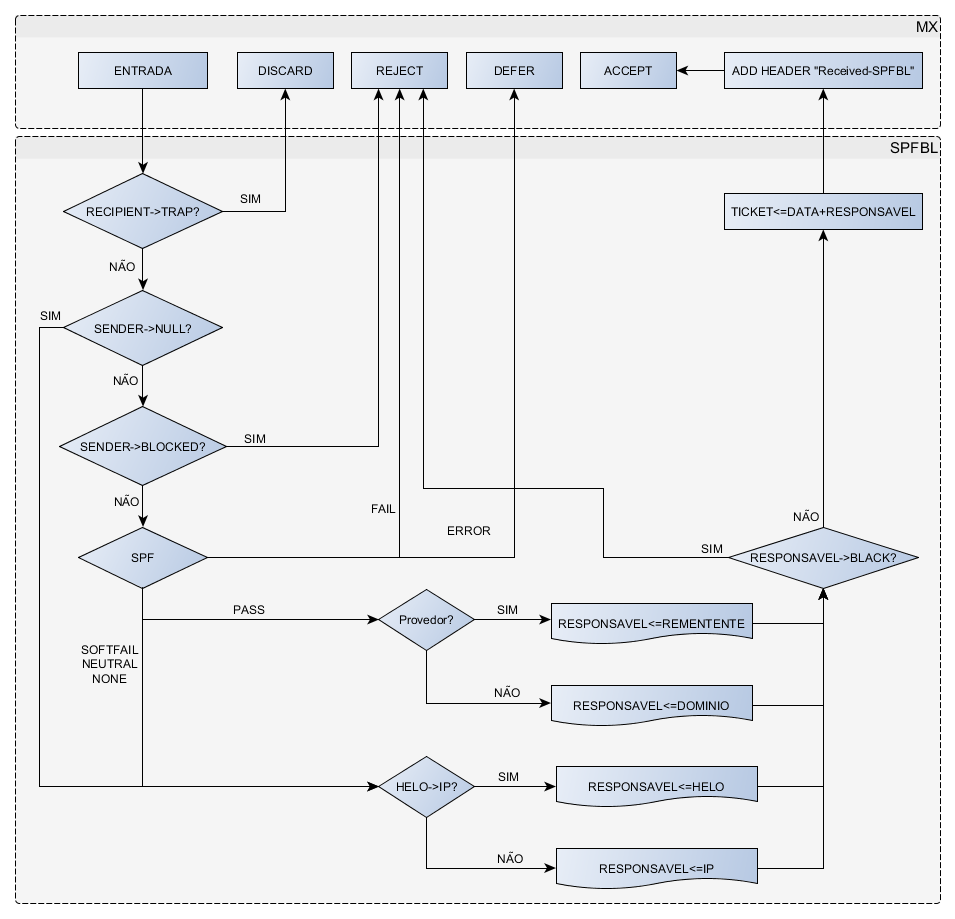
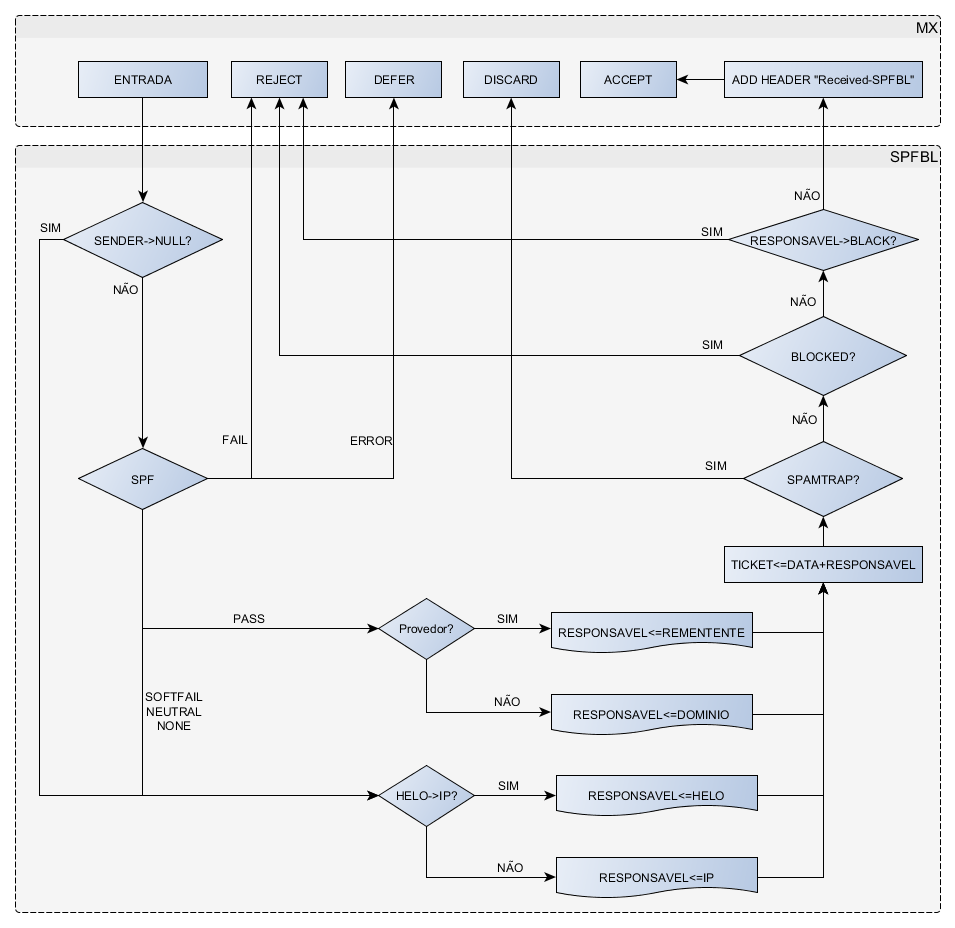
Atualização da documentação

diff --git a/README.md b/README.md
@@ -94,7 +94,7 @@ Quando o resultado da consulta SPFBL retorna um ticket, dentro dele segue inform
 
 ##### Bloqueio permanente de remetentes
 
-É possível bloquear remetentes permanentemente através da alteração de uma lista arbitrária.
+É possível bloquear remetentes permanentemente através da alteração de uma lista arbitrária onde o SPFBL realiza a denúncia automática e manda o MTA rejeitar a mensagem.
 
 As opções de bloqueio são:
 
@@ -124,7 +124,7 @@ OK
 
 É possível adicionar destinatários na lista spamtrap do SPFBL.
 
-Sempre que o destinatário de uma consulta está na lista spamtrap, o SPFBL realiza a auto-denúncia e manda o MTA discartar silencionsamente a mensagem.
+Sempre que o destinatário de uma consulta está na lista spamtrap, o SPFBL realiza a denúncia automática e manda o MTA discartar silencionsamente a mensagem.
 
 Para visualizar a lista de spamtrap:
 ```
